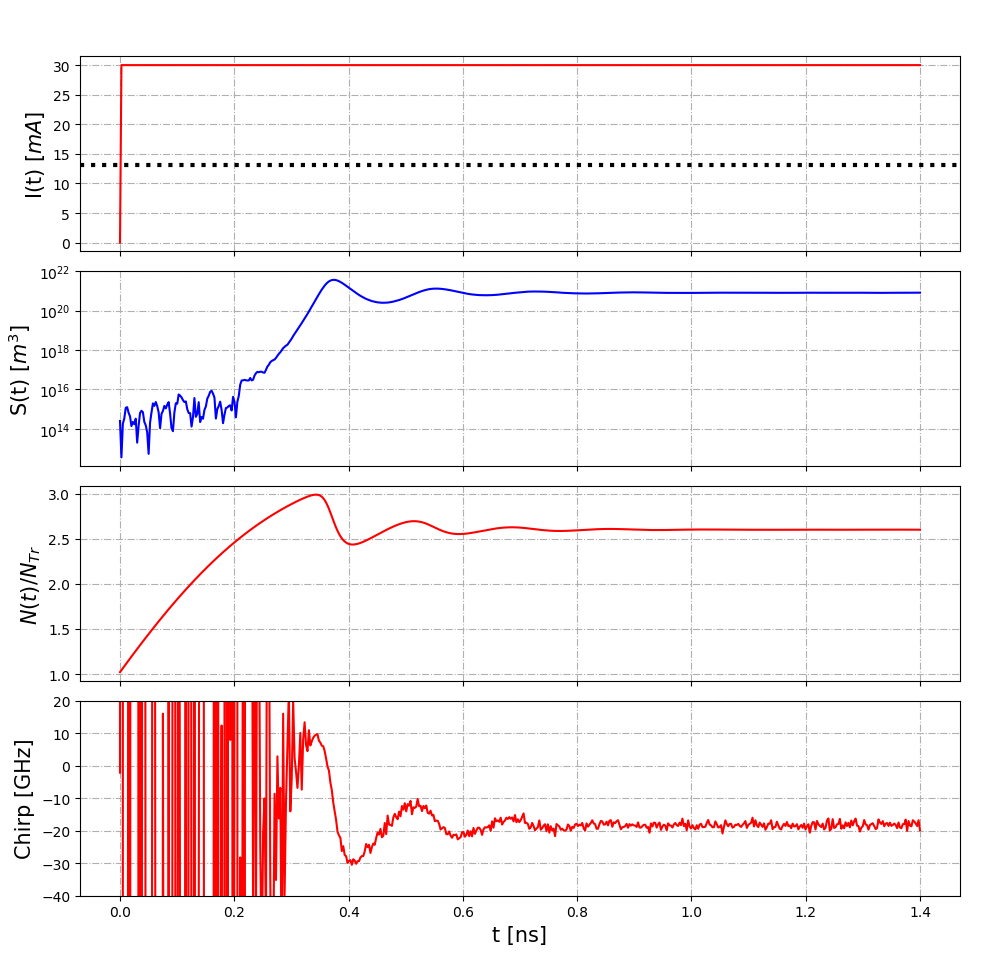
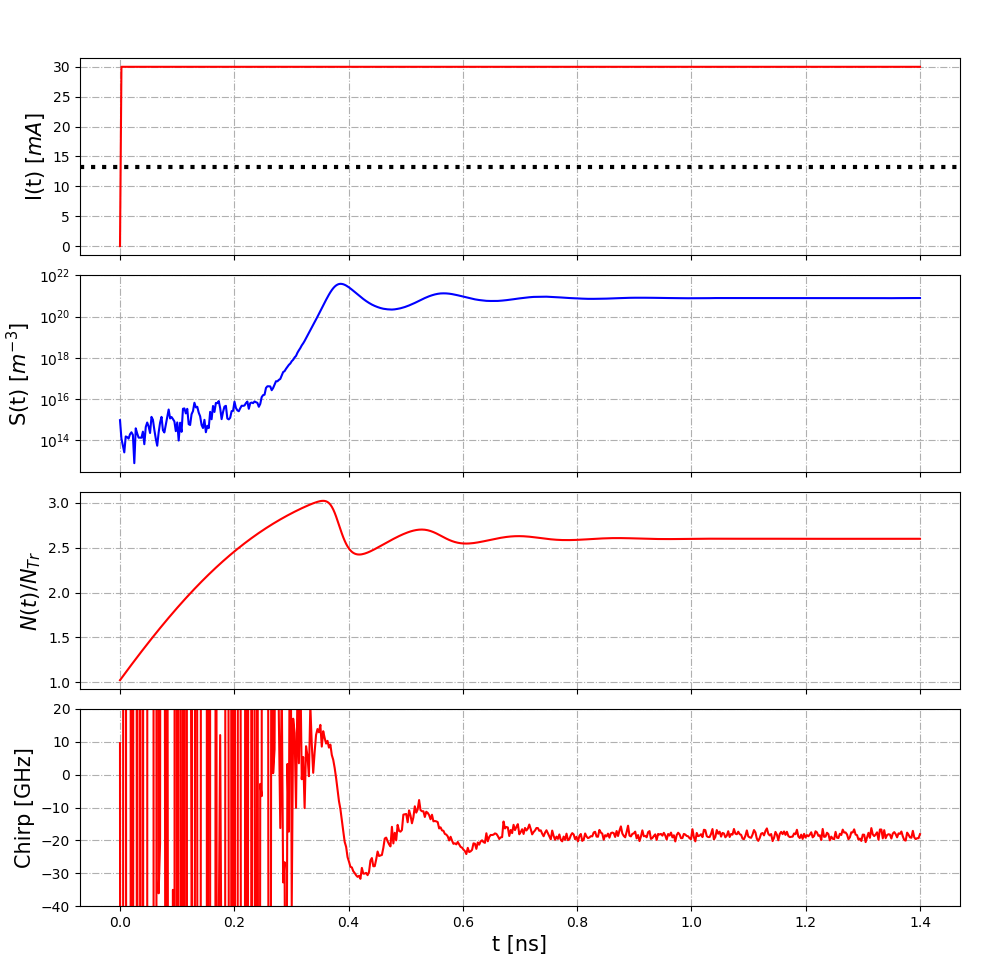
Change the graph

diff --git a/src/transitorio.py b/src/transitorio.py
@@ -150,7 +150,7 @@ axs[3].grid(linestyle='-.')
 axs[3].set_ylim([-40, 20])
 
 axs[0].set_ylabel("I(t) [$mA$]", fontsize=15)
-axs[1].set_ylabel("S(t) [$m^3$]", fontsize=15)
+axs[1].set_ylabel("S(t) [$m^{-3}$]", fontsize=15)
 axs[2].set_ylabel("$N(t) / N_{Tr}$", fontsize=15)
 axs[3].set_ylabel("Chirp [GHz]", fontsize=15)
 
